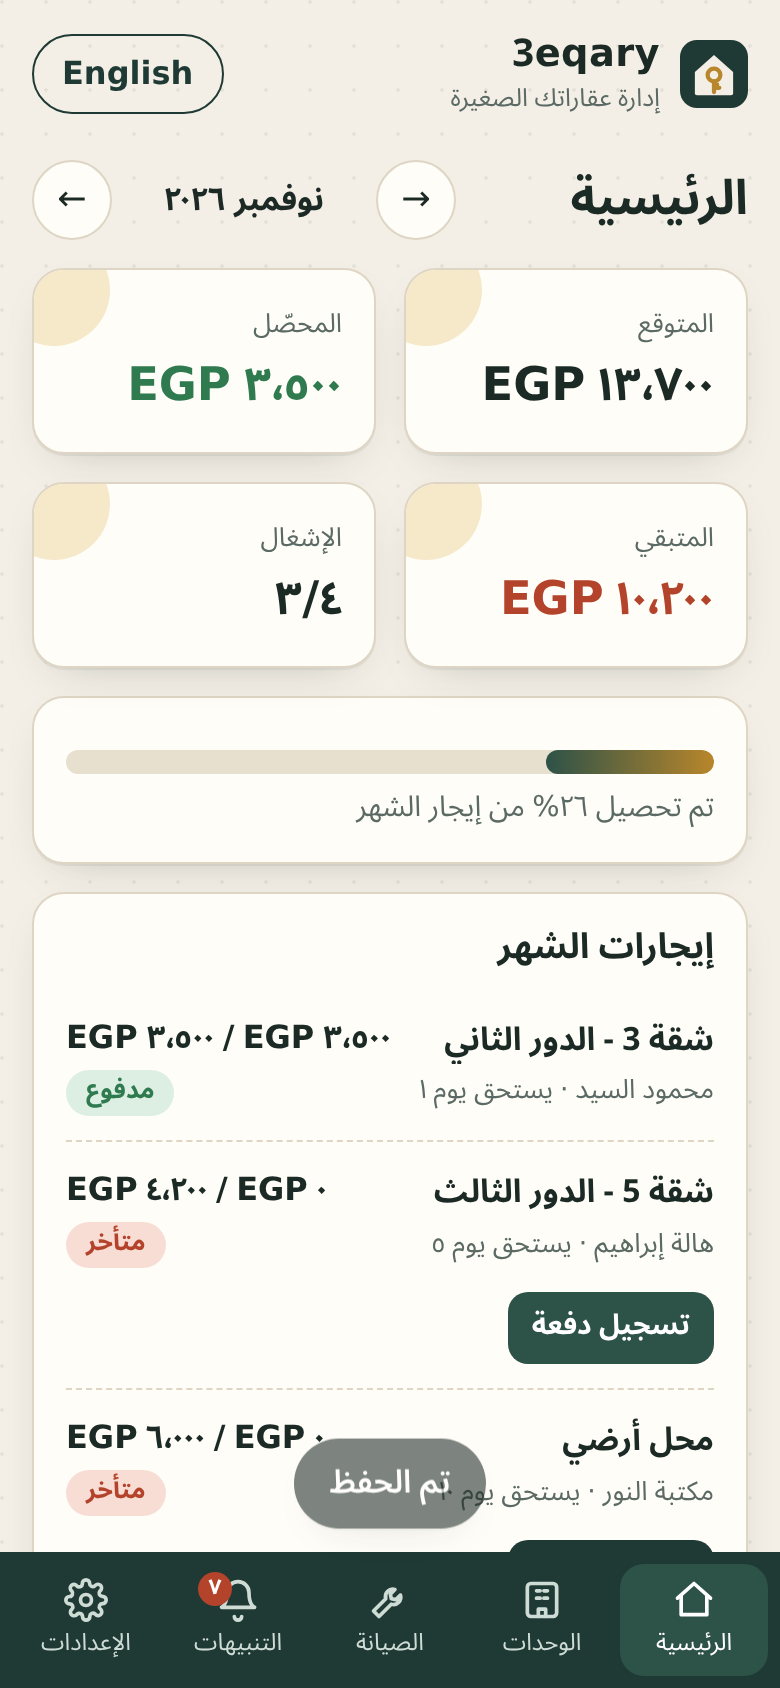
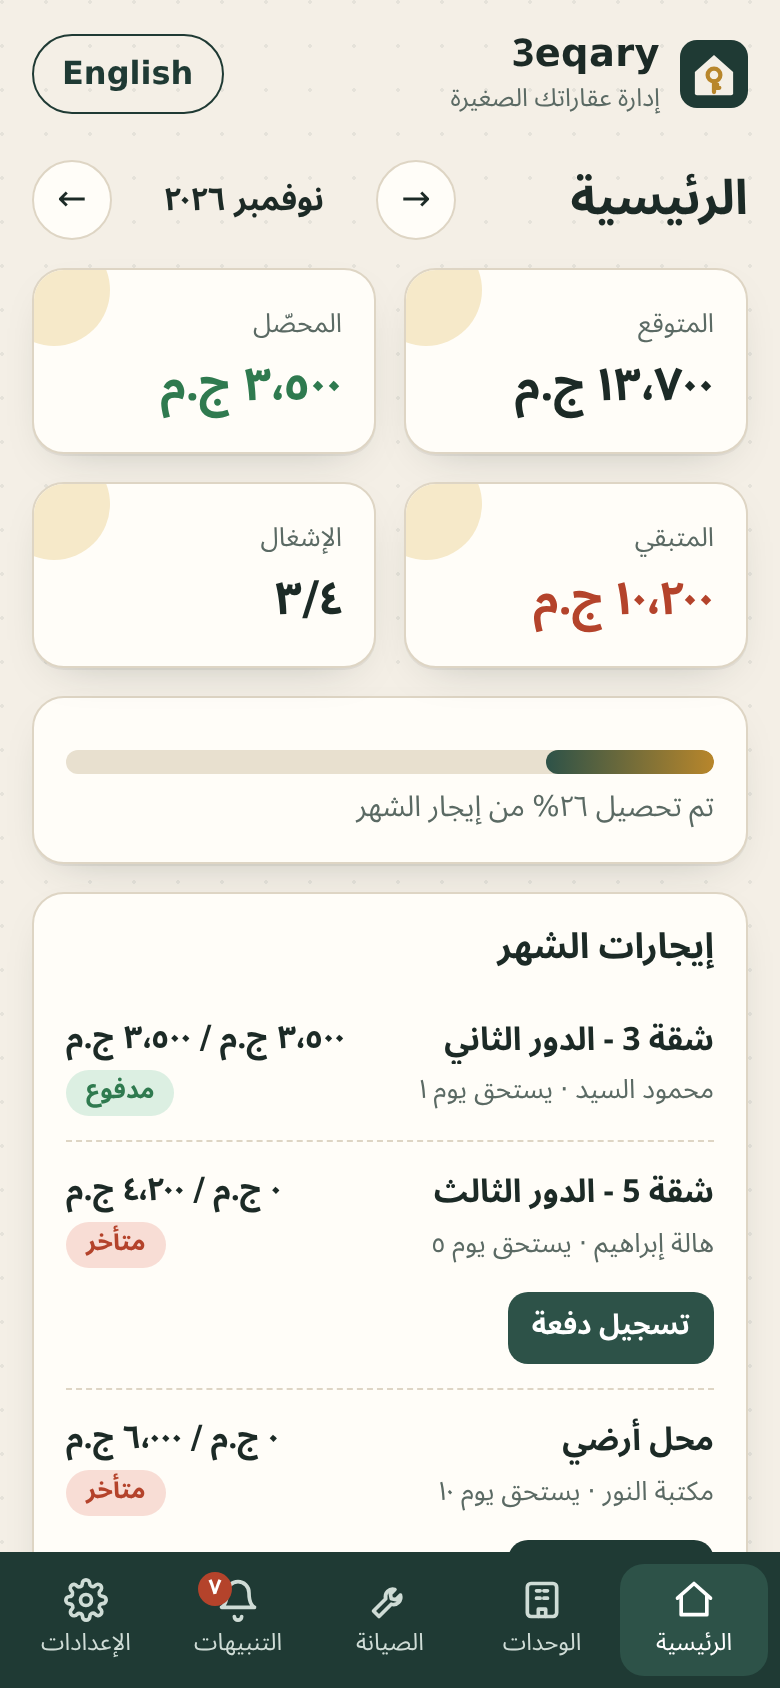
Rounds 2-3: currency label, ledger tap-to-pay, unit search and filters

diff --git a/app.js b/app.js
@@ -6,7 +6,7 @@
   var fakeToday = /^\d{4}-\d{2}-\d{2}$/.test(qs.get('today') || '') ? qs.get('today') : null;
   function today() { return fakeToday || L.iso(new Date()); }
 
-  var S = load(), month = L.monthKey(today()), tickFilter = 'all';
+  var S = load(), month = L.monthKey(today()), tickFilter = 'all', unitFilter = 'all', unitQuery = '';
 
   function load() {
     try { var raw = localStorage.getItem(KEY); if (raw) return L.normalize(JSON.parse(raw)); } catch (e) { /* corrupt: start clean */ }
@@ -25,7 +25,8 @@
   }
   function esc(s) { return String(s == null ? '' : s).replace(/[&<>"']/g, function (c) { return { '&': '&amp;', '<': '&lt;', '>': '&gt;', '"': '&quot;', "'": '&#39;' }[c]; }); }
   function loc() { return S.lang === 'ar' ? 'ar-EG' : 'en-GB'; }
-  function money(n) { return new Intl.NumberFormat(loc(), { maximumFractionDigits: 2 }).format(n || 0) + ' ' + esc(S.currency); }
+  function curLabel() { return S.lang === 'ar' && S.currency === 'EGP' ? 'ج.م' : S.currency; }
+  function money(n) { return new Intl.NumberFormat(loc(), { maximumFractionDigits: 2 }).format(n || 0) + ' ' + esc(curLabel()); }
   function num(n) { return new Intl.NumberFormat(loc()).format(n); }
   function dateFmt(s) { if (!s) return '-'; return new Intl.DateTimeFormat(loc(), { day: 'numeric', month: 'short', year: 'numeric' }).format(L.parse(s)); }
   function monthFmt(m) { return new Intl.DateTimeFormat(loc(), { month: 'long', year: 'numeric' }).format(L.parse(m + '-01')); }
@@ -85,7 +86,9 @@
     for (var i = 11; i >= 0; i--) {
       var m = L.addMonths(cur, -i), s = L.rentStatus(u, S, m, today());
       var cls = s.code === 'paid' ? 'paid' : (s.code === 'overdue' || s.code === 'partial-late') ? 'late' : s.code === 'partial' ? 'part' : s.code === 'soon' ? 'soon' : '';
-      out += '<i class="' + cls + '" title="' + esc(monthFmt(m)) + ': ' + esc(t('st_' + s.code)) + '">' + (big ? monthShort(m) : '') + '</i>';
+      var tip = esc(monthFmt(m)) + ': ' + esc(t('st_' + s.code));
+      if (big && s.code !== 'none' && s.left > 0) out += '<i class="' + cls + '" role="button" tabindex="0" data-act="pay" data-id="' + u.id + '" data-month="' + m + '" title="' + tip + '" aria-label="' + tip + '" style="cursor:pointer">' + monthShort(m) + '</i>';
+      else out += '<i class="' + cls + '" title="' + tip + '">' + (big ? monthShort(m) : '') + '</i>';
     }
     return '<div class="strip' + (big ? ' big' : '') + '" dir="ltr" role="img" aria-label="' + esc(t('ledger')) + '">' + out + '</div>';
   }
@@ -122,14 +125,24 @@
 
   function viewUnits() {
     if (!S.units.length) return emptyUnits();
-    var h = '<div class="page-head"><h1>' + t('nav_units') + '</h1><button class="btn" type="button" data-act="addunit">+ ' + t('add_unit') + '</button></div><div class="grid cards">';
+    var h = '<div class="page-head"><h1>' + t('nav_units') + '</h1><button class="btn" type="button" data-act="addunit">+ ' + t('add_unit') + '</button></div>';
+    h += '<label class="f"><input id="unitSearch" type="search" placeholder="' + esc(t('search')) + '" value="' + esc(unitQuery) + '" style="width:100%;padding:10px 12px;border:1.5px solid var(--line);border-radius:10px;min-height:44px"></label>';
+    h += '<div class="seg" role="group">' + ['all', 'overdue', 'expiring', 'vacant'].map(function (f) { return '<button type="button" data-act="ufilt" data-f="' + f + '" aria-pressed="' + (unitFilter === f) + '">' + t('uf_' + f) + '</button>'; }).join('') + '</div><div class="grid cards" id="unitCards">';
+    var q = unitQuery.toLowerCase(), shown = 0;
     S.units.forEach(function (u) {
+      var cs0 = L.contractStatus(u, today()), rs0 = L.rentStatus(u, S, L.monthKey(today()), today());
+      if (unitFilter === 'overdue' && !(rs0.code === 'overdue' || rs0.code === 'partial-late')) return;
+      if (unitFilter === 'expiring' && !(cs0.code === 'expiring' || cs0.code === 'expired')) return;
+      if (unitFilter === 'vacant' && L.isOccupied(u)) return;
+      if (q && (u.name + ' ' + u.tenant + ' ' + u.address + ' ' + u.phone).toLowerCase().indexOf(q) < 0) return;
+      shown++;
       var occ = L.isOccupied(u), s = L.rentStatus(u, S, L.monthKey(today()), today()), c = L.contractStatus(u, today());
       h += '<a class="card tag' + (occ ? '' : ' vac') + '" href="#/unit/' + u.id + '" style="text-decoration:none;color:inherit"><h3>' + esc(u.name) + '</h3>' +
         '<div class="who">' + (occ ? esc(u.tenant) : t('vacant')) + (u.address ? ' · ' + esc(u.address) : '') + '</div>' +
         '<div class="meta"><span class="amt">' + money(u.rent) + ' <small class="muted">' + t('per_month') + '</small></span>' + (occ ? statusChip(s) : chip('vacant', t('vacant'))) + '</div>' +
         (occ ? '<div class="meta" style="margin-top:6px"><small class="muted">' + esc(contractText(c)) + '</small></div>' + ledgerStrip(u) : '') + '</a>';
     });
+    if (!shown) h += '<p class="muted">' + t('no_match') + '</p>';
     return h + '</div>';
   }
 
@@ -149,7 +162,7 @@
       '<dt>' + t('start') + '</dt><dd>' + dateFmt(u.start) + '</dd><dt>' + t('end') + '</dt><dd>' + dateFmt(u.end) + (occ ? ' ' + chip(c.code, contractText(c)) : '') + '</dd>' +
       '<dt>' + t('deposit') + '</dt><dd>' + money(u.deposit) + '</dd>' +
       (u.notes ? '<dt>' + t('notes') + '</dt><dd>' + esc(u.notes) + '</dd>' : '') + '</dl></div>' +
-      '<div class="card"><h2>' + t('ledger') + '</h2>' + ledgerStrip(u, true) +
+      '<div class="card"><h2>' + t('ledger') + '</h2>' + ledgerStrip(u, true) + '<p class="hint" style="margin:8px 0 0">' + t('ledger_hint') + '</p>' +
       '<p class="muted" style="margin:10px 0 0">' + t('total_paid') + ': <b>' + money(total) + '</b>' + (ar.total ? ' · <span style="color:var(--bad)">' + t('arrears') + ': <b>' + money(ar.total) + '</b></span>' : '') + '</p></div></div>';
     h += '<div class="card sec"><h2>' + t('payments') + '</h2>';
     if (!pays.length) h += '<p class="muted">' + t('no_payments') + '</p>';
@@ -347,6 +360,7 @@
       addticket: function () { ticketForm(null, b.dataset.unit); },
       editticket: function () { ticketForm(S.tickets.filter(function (x) { return x.id === id; })[0]); },
       nextticket: function () { var x = S.tickets.filter(function (y) { return y.id === id; })[0]; x.status = { open: 'progress', progress: 'done', done: 'open' }[x.status]; save(); render(); },
+      ufilt: function () { unitFilter = b.dataset.f; render(); },
       filt: function () { tickFilter = b.dataset.f; render(); },
       addrem: remForm,
       toggrem: function () { var r = S.reminders.filter(function (x) { return x.id === id; })[0]; r.done = !r.done; save(); render(); },
@@ -358,9 +372,11 @@
     };
     if (A[act]) A[act]();
   });
+  document.addEventListener('keydown', function (e) { if ((e.key === 'Enter' || e.key === ' ') && e.target.matches('.strip i[data-act]')) { e.preventDefault(); e.target.click(); } });
   document.addEventListener('change', function (e) {
     var el = e.target;
-    if (el.id === 'setLang') { S.lang = el.value; save(); render(); }
+    if (el.id === 'unitSearch') { /* handled on input */ }
+    else if (el.id === 'setLang') { S.lang = el.value; save(); render(); }
     else if (el.id === 'setCur') { S.currency = (el.value.trim() || 'EGP').slice(0, 5); save(); toast(t('saved')); }
     else if (el.id === 'setOwner') { S.owner = el.value.trim().slice(0, 60); save(); toast(t('saved')); }
     else if (el.id === 'fileIn' && el.files[0]) {
@@ -380,6 +396,11 @@
       };
       rd2.readAsText(el.files[0]);
     }
+  });
+  document.addEventListener('input', function (e) {
+    if (e.target.id !== 'unitSearch') return;
+    unitQuery = e.target.value; var pos = e.target.selectionStart; render();
+    var n = $('#unitSearch'); n.focus(); try { n.setSelectionRange(pos, pos); } catch (x) { /* ignore */ }
   });
   $('#langBtn').onclick = function () { S.lang = S.lang === 'ar' ? 'en' : 'ar'; save(); render(); };
   window.addEventListener('hashchange', function () { render(); window.scrollTo(0, 0); });

diff --git a/tests/e2e.js b/tests/e2e.js
@@ -96,6 +96,7 @@ const ok = (m) => console.log('ok ' + (++step) + ' - ' + m);
   assert.equal(await page.locator('.kpi').count(), 4);
   assert.ok(await page.locator('.alert').count() >= 3); ok('dashboard shows KPIs and alerts from sample data');
   await noOverflow('dashboard AR');
+  await page.waitForTimeout(2600);
   await page.screenshot({ path: path.join(SHOTS, 'dashboard-ar.png'), fullPage: false });
   const before = await page.textContent('.month-pick b');
   await page.click('[data-act=mprev]');
@@ -112,7 +113,19 @@ const ok = (m) => console.log('ok ' + (++step) + ' - ' + m);
   await page.screenshot({ path: path.join(SHOTS, 'dashboard-en.png') });
   await page.goto(BASE + '?today=' + TODAY + '#/units');
   await noOverflow('units EN');
+  await page.waitForTimeout(2600);
   await page.screenshot({ path: path.join(SHOTS, 'units-en.png') });
+  await page.fill('#unitSearch', 'Mahmoud'); assert.equal(await page.locator('.tag').count(), 0);
+  await page.fill('#unitSearch', 'هالة'); assert.equal(await page.locator('.tag').count(), 1); ok('unit search filters by tenant');
+  await page.fill('#unitSearch', '');
+  await page.click('[data-act=ufilt][data-f=vacant]'); assert.equal(await page.locator('.tag').count(), 1); ok('vacant filter');
+  await page.click('[data-act=ufilt][data-f=overdue]'); assert.ok(await page.locator('.tag').count() >= 1); ok('overdue filter');
+  await page.click('[data-act=ufilt][data-f=all]');
+  await page.click('.tag >> nth=1');
+  await page.click('.strip.big i[data-act=pay]');
+  assert.ok(await page.locator('select[name=month]').inputValue() < '2026-11'); ok('ledger month tap opens payment for that month');
+  await page.click('#dlgCancel');
+  await page.goBack();
   await page.click('.tag >> nth=0');
   await noOverflow('unit detail EN');
   await page.screenshot({ path: path.join(SHOTS, 'unit-en.png'), fullPage: true });

diff --git a/i18n.js b/i18n.js
@@ -39,7 +39,7 @@ window.I18N = {
     total_paid: 'إجمالي المدفوع', arrears: 'متأخرات', tenant_name_req: 'اكتب اسم المستأجر أو اتركه فارغًا لو الوحدة شاغرة.',
     name_req: 'اسم الوحدة مطلوب', rent_req: 'أدخل إيجارًا صحيحًا', date_bad: 'تاريخ النهاية قبل البداية', amt_req: 'أدخل مبلغًا صحيحًا',
     end_tenant: 'إنهاء الإيجار (إخلاء الوحدة)', end_tenant_q: 'إخلاء الوحدة؟ سجل الدفعات يبقى محفوظًا.', call: 'اتصال', wa: 'واتساب',
-    due_today: 'اليوم'
+    due_today: 'اليوم', ledger_hint: 'اضغط على شهر غير مسدد لتسجيل دفعته.', search: 'بحث بالاسم أو المستأجر أو الهاتف', no_match: 'لا توجد نتائج.', uf_all: 'الكل', uf_overdue: 'متأخرة', uf_expiring: 'عقد ينتهي', uf_vacant: 'شاغرة'
   },
   en: {
     app: '3eqary', tag: 'Small-landlord manager',
@@ -80,6 +80,6 @@ window.I18N = {
     total_paid: 'Total paid', arrears: 'Arrears', tenant_name_req: 'Enter a tenant name, or leave empty if vacant.',
     name_req: 'Unit name is required', rent_req: 'Enter a valid rent', date_bad: 'End date is before start', amt_req: 'Enter a valid amount',
     end_tenant: 'End tenancy (mark vacant)', end_tenant_q: 'Mark this unit vacant? Payment history is kept.', call: 'Call', wa: 'WhatsApp',
-    due_today: 'Today'
+    due_today: 'Today', ledger_hint: 'Tap an unpaid month to record its payment.', search: 'Search name, tenant or phone', no_match: 'No matches.', uf_all: 'All', uf_overdue: 'Overdue', uf_expiring: 'Contract ending', uf_vacant: 'Vacant'
   }
 };
